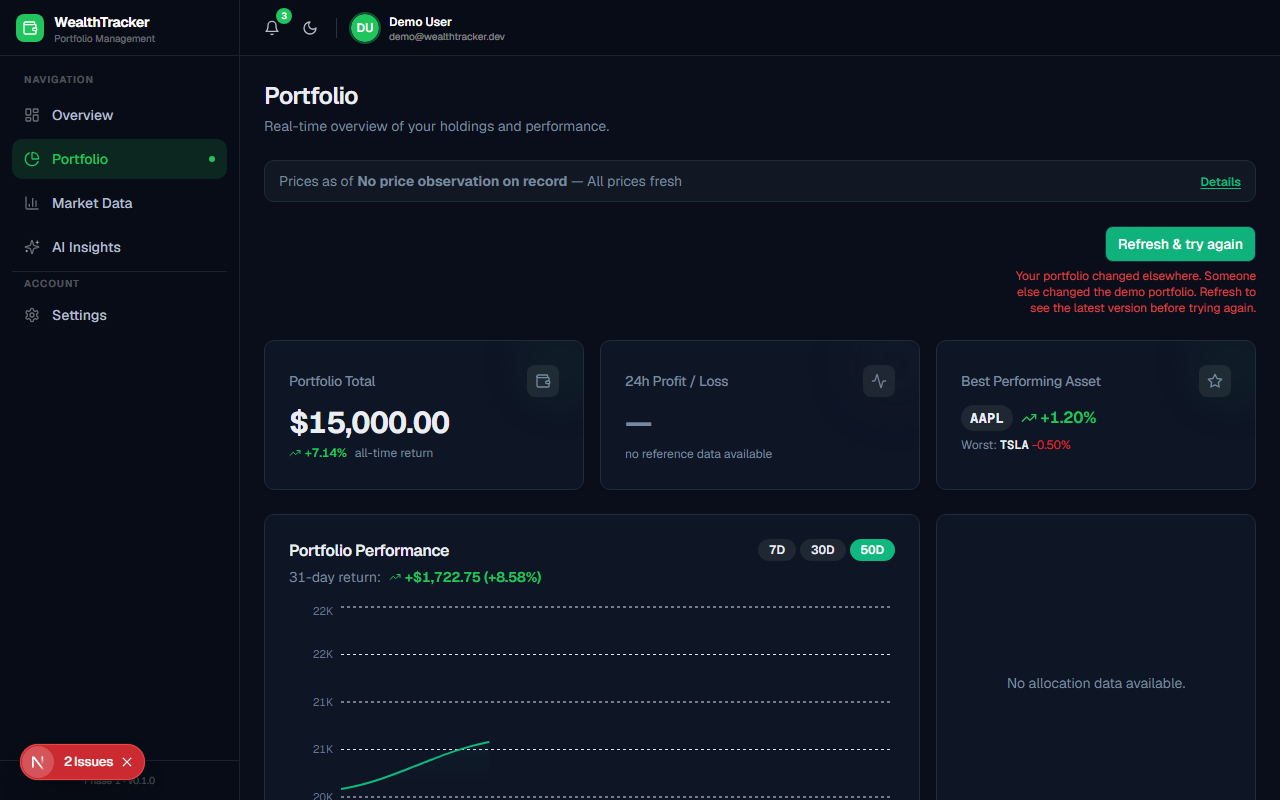
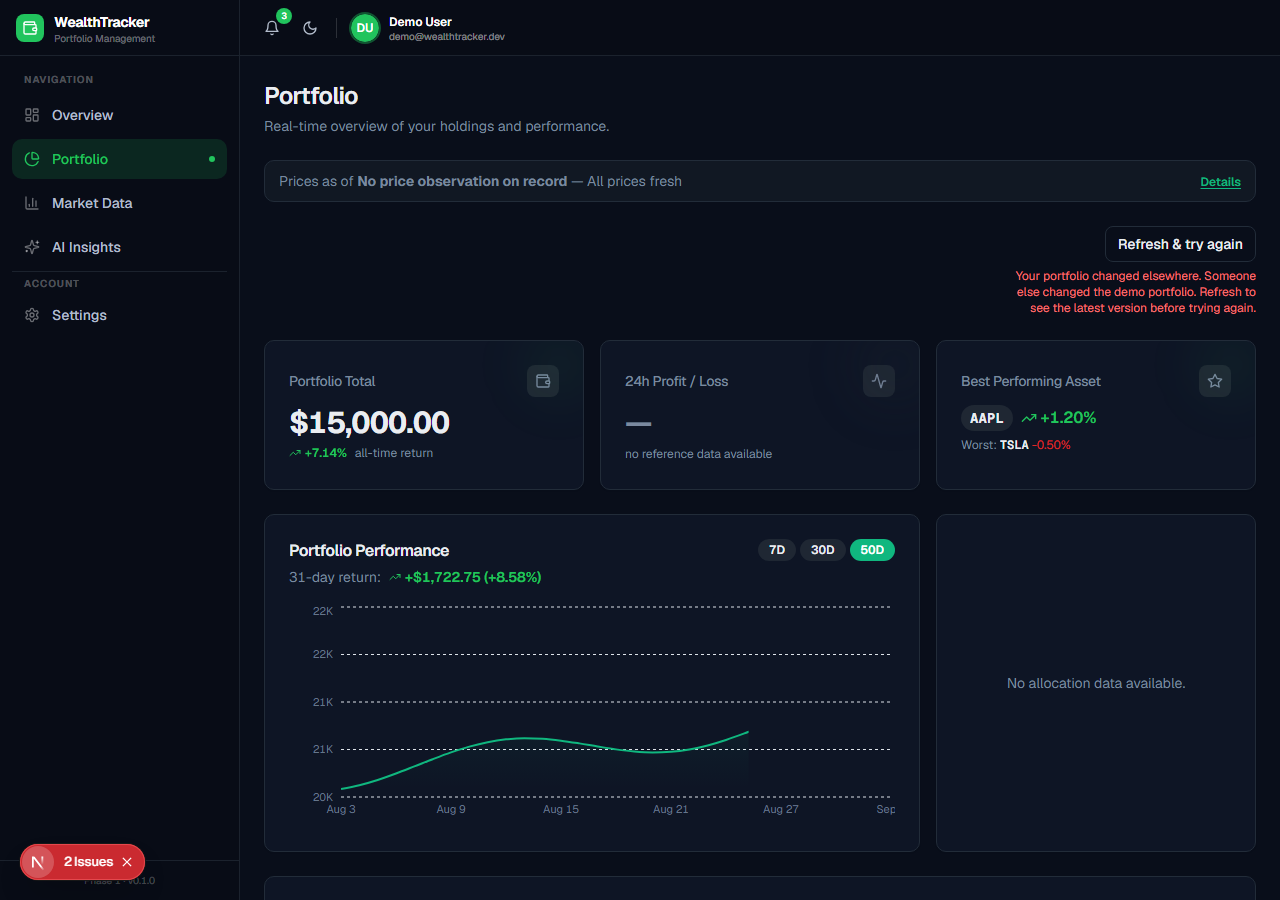
fix(b2): raise ManualResetControl feedback/hover text to WCAG 4.5:1
Round-4 review measured success text (light, 3.51:1), conflict/failure
text (light 3.52:1 / dark 4.32:1), and the outline button's hovered
state (2.59:1, both themes) below SC 1.4.3's 4.5:1 minimum for small
text. The hover finding traces to the shared Button outline variant's
hover:bg-accent hover:text-accent-foreground, which this control keeps
untouched and instead overrides locally via className.

Feedback text: text-emerald-600/text-destructive -> text-emerald-700 /
text-red-700 dark:text-red-400. Buttons: local hover:bg-emerald-700.
Re-measured via getComputedStyle + the WCAG relative-luminance formula
against each control's actual rendered background: success 5.11:1
(light) / ~10:1 (dark, unchanged), conflict/failure 6.04:1 (light) /
6.97:1 (dark), hover 5.48:1 (both themes). Re-captured the affected
evidence screenshots (03, 05, 08, 09) and added one new hover-state
capture (12).

diff --git a/frontend/src/components/asset-picker/ManualResetControl.tsx b/frontend/src/components/asset-picker/ManualResetControl.tsx
@@ -161,6 +161,15 @@ export function ManualResetControl({
           type="button"
           variant="outline"
           size="sm"
+          // Local override, not a button.tsx/global-token change (scope
+          // discipline — this repo's own outline-button hover treatment,
+          // hover:bg-accent hover:text-accent-foreground, resolves to white
+          // on the accent green at 2.59:1, verified against the actual
+          // --accent/--accent-foreground values and independently confirmed
+          // by external review; below WCAG 2.2 1.4.3's 4.5:1 minimum for
+          // small text/labels. emerald-700 keeps the existing white hover
+          // text at 5.49:1 in both themes.
+          className="hover:bg-emerald-700"
           onClick={handleReobserve}
           disabled={isReobserving}
           aria-describedby={alertId}
@@ -172,6 +181,7 @@ export function ManualResetControl({
           type="button"
           variant="outline"
           size="sm"
+          className="hover:bg-emerald-700"
           onClick={handleReset}
           disabled={isBusy || !versionObserved}
           aria-describedby={versionObserved ? undefined : blockedId}
@@ -187,21 +197,31 @@ export function ManualResetControl({
         </p>
       )}
 
+      {/* text-emerald-700/text-red-700/text-red-400 below are chosen, not the
+          design system's own text-emerald-600 / text-destructive tokens —
+          those measured 3.51-4.32:1 at this 12px/text-xs size against this
+          control's actual backgrounds (verified via getComputedStyle + the
+          WCAG relative-luminance formula, external review independently
+          measured the same), under the 4.5:1 minimum WCAG 2.2 1.4.3 requires
+          for text this size. These pass ≥5:1 in both themes without touching
+          the shared tokens (used elsewhere for buttons/borders, a different
+          contrast situation). dark:text-emerald-400 is unchanged — it
+          already measured ~10:1. */}
       {phase === "success" && (
-        <p id={statusId} role="status" aria-live="polite" className="text-xs text-emerald-600 dark:text-emerald-400">
+        <p id={statusId} role="status" aria-live="polite" className="text-xs text-emerald-700 dark:text-emerald-400">
           Demo portfolio reset.
         </p>
       )}
 
       {phase === "conflict" && (
-        <p id={alertId} role="alert" className="max-w-[16rem] text-right text-xs text-destructive">
+        <p id={alertId} role="alert" className="max-w-[16rem] text-right text-xs text-red-700 dark:text-red-400">
           Your portfolio changed elsewhere. {conflictMessage} Refresh to see the latest
           version before trying again.
         </p>
       )}
 
       {phase === "failure" && (
-        <p role="alert" className="text-xs text-destructive">
+        <p role="alert" className="text-xs text-red-700 dark:text-red-400">
           Reset failed. You can try again.
         </p>
       )}

diff --git a/docs/evidence/b2-wave-6-manual-reset/README.md b/docs/evidence/b2-wave-6-manual-reset/README.md
@@ -18,3 +18,18 @@ never shipped). `NEXT_PUBLIC_ENABLE_DEMO_RESET_CONTROL=true`, `NEXT_PUBLIC_MOCK_
 | `09-conflict-light-wide.png` | Conflict — light theme, 1280px |
 | `10-idle-dark-narrow-375.png` | Idle at 375×812 — dark theme. Shows the pre-existing sidebar clipping tracked in [`docs/todos/backlog/responsive-dashboard-sidebar/`](../../todos/backlog/responsive-dashboard-sidebar/README.md), unrelated to this control. |
 | `11-idle-light-narrow-375.png` | Idle at 375×812 — light theme. Same clipping. |
+| `12-hover-light-wide.png` | Enabled button, hovered — light theme, 1280px. New in the text/hover contrast fix below. |
+
+## Text/hover contrast fix
+
+A follow-up review measured four states below WCAG 2.2 SC 1.4.3's 4.5:1 minimum for small text:
+success text (light, 3.51:1), conflict/failure text (light, 3.52:1; dark, 4.32:1), and the button's
+hovered state (2.59:1, both themes — the shared `Button` `outline` variant's `hover:bg-accent
+hover:text-accent-foreground` resolves to white-on-accent-green at that size). Fixed with a local,
+scoped change in `ManualResetControl.tsx` only (no shared `Button`/token edits): feedback text moved
+from `text-emerald-600`/`text-destructive` to `text-emerald-700`/`text-red-700 dark:text-red-400`,
+and the two buttons gained a local `hover:bg-emerald-700` override. Re-measured via
+`getComputedStyle` + the WCAG relative-luminance formula against each control's actual rendered
+background: success 5.11:1 (light) / ~10:1 (dark, unchanged), conflict/failure 6.04:1 (light) /
+6.97:1 (dark), hover 5.48:1 (both themes — `--accent-foreground` is white in both). Screenshots
+`03`, `05`, `08`, `09` were re-captured against the fixed colors; `12` is new.
